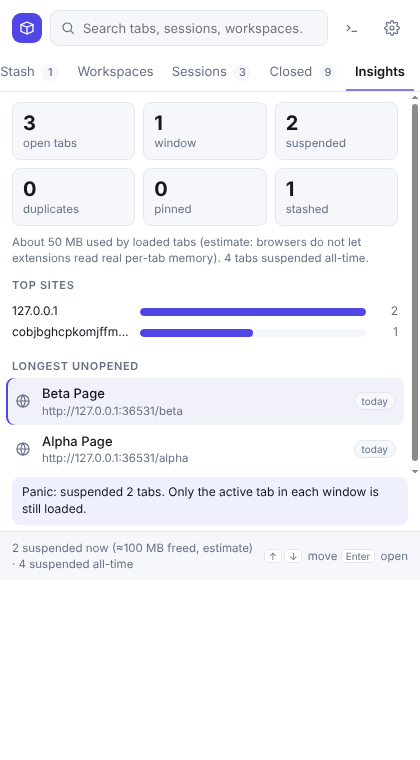
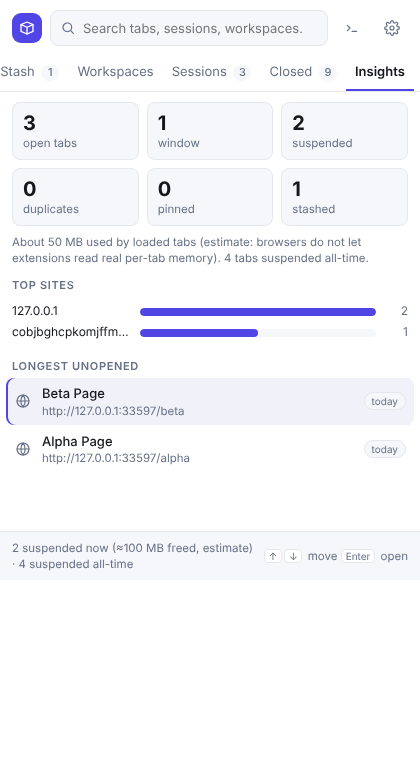
Release 1.3.1: refreshed screenshots and docs
- Regenerate all screenshots from the current build; wait out toasts, full-page settings
- Changelog, .claude project state and conventions updated
- Bump version to 1.3.1 (no behavior change)

diff --git a/.claude/project-state.md b/.claude/project-state.md
@@ -1,17 +1,18 @@
 # Project state
 
-_Snapshot: version 1.3.0 on `master`. Update this file whenever you ship._
+_Snapshot: version 1.3.1 on `master`. Update this file whenever you ship._
 
 ## Versions and release status
 
 | Version | State |
 |---|---|
 | 1.2.0 | Released on GitHub (tag `v1.2.0`, zip attached). Popup UI, Closed view, duplicate badge. |
+| 1.3.1 | **Released** (patch). Docs, store listing, privacy text, screenshots and `.claude/` only; extension behavior identical to 1.3.0. |
 | 1.3.0 | **Released** on GitHub (tag `v1.3.0` at the commit that added `.claude/`, `tabvault-1.3.0-chrome.zip` attached, about 114 KB). Published via the manual Release workflow because tag pushes fail from the cloud sandbox. |
 
 Chrome Web Store: nothing published from here; `docs/STORE_LISTING.md` has the listing text and permission justifications.
 
-## What is built (all in 1.3.0)
+## What is built (all in 1.3.0, unchanged in 1.3.1)
 
 Popup (`src/entrypoints/popup/`): six views (Tabs, Stash, Workspaces, Sessions, Closed, Insights) plus a Help view and a
 command palette (`>` prefix or Ctrl/Cmd+K).

diff --git a/CHANGELOG.md b/CHANGELOG.md
@@ -1,5 +1,12 @@
 # Changelog
 
+## 1.3.1
+
+- Documentation and screenshots brought up to date with 1.3.0: README (removed the outdated "tab groups are not saved" limitation, corrected the size, refreshed the architecture tree), the Web Store listing text and the privacy policy.
+- Fresh screenshots of every view (Tabs, Stash, Command palette, Workspaces, Sessions, Closed, Insights) and the full Settings page, without stale toast messages.
+- Added `.claude/` project notes for AI assistants (current state, architecture, conventions, roadmap, `/verify` and `/release` commands).
+- No change to extension behavior or permissions.
+
 ## 1.3.0
 
 - **Stash.** Save a tab for later and close it in one click (Alt+Shift+S). A new Stash view lists them; click to reopen.

diff --git a/.claude/conventions.md b/.claude/conventions.md
@@ -47,6 +47,7 @@
   - Steps share one browser. A failing step can leave state (open tabs, search text) that makes later steps fail; fix the first
     failure before chasing the rest. Workspace steps assert exact tab counts, so close any extra tabs you create.
   - Run e2e twice after changing it; one early failure was transient and never diagnosed.
+  - `shot()` waits for the toast to clear before taking a screenshot and the settings shot is full-page; keep that so docs never show a message from an earlier step.
 
 ## Git, CI and releases
 
